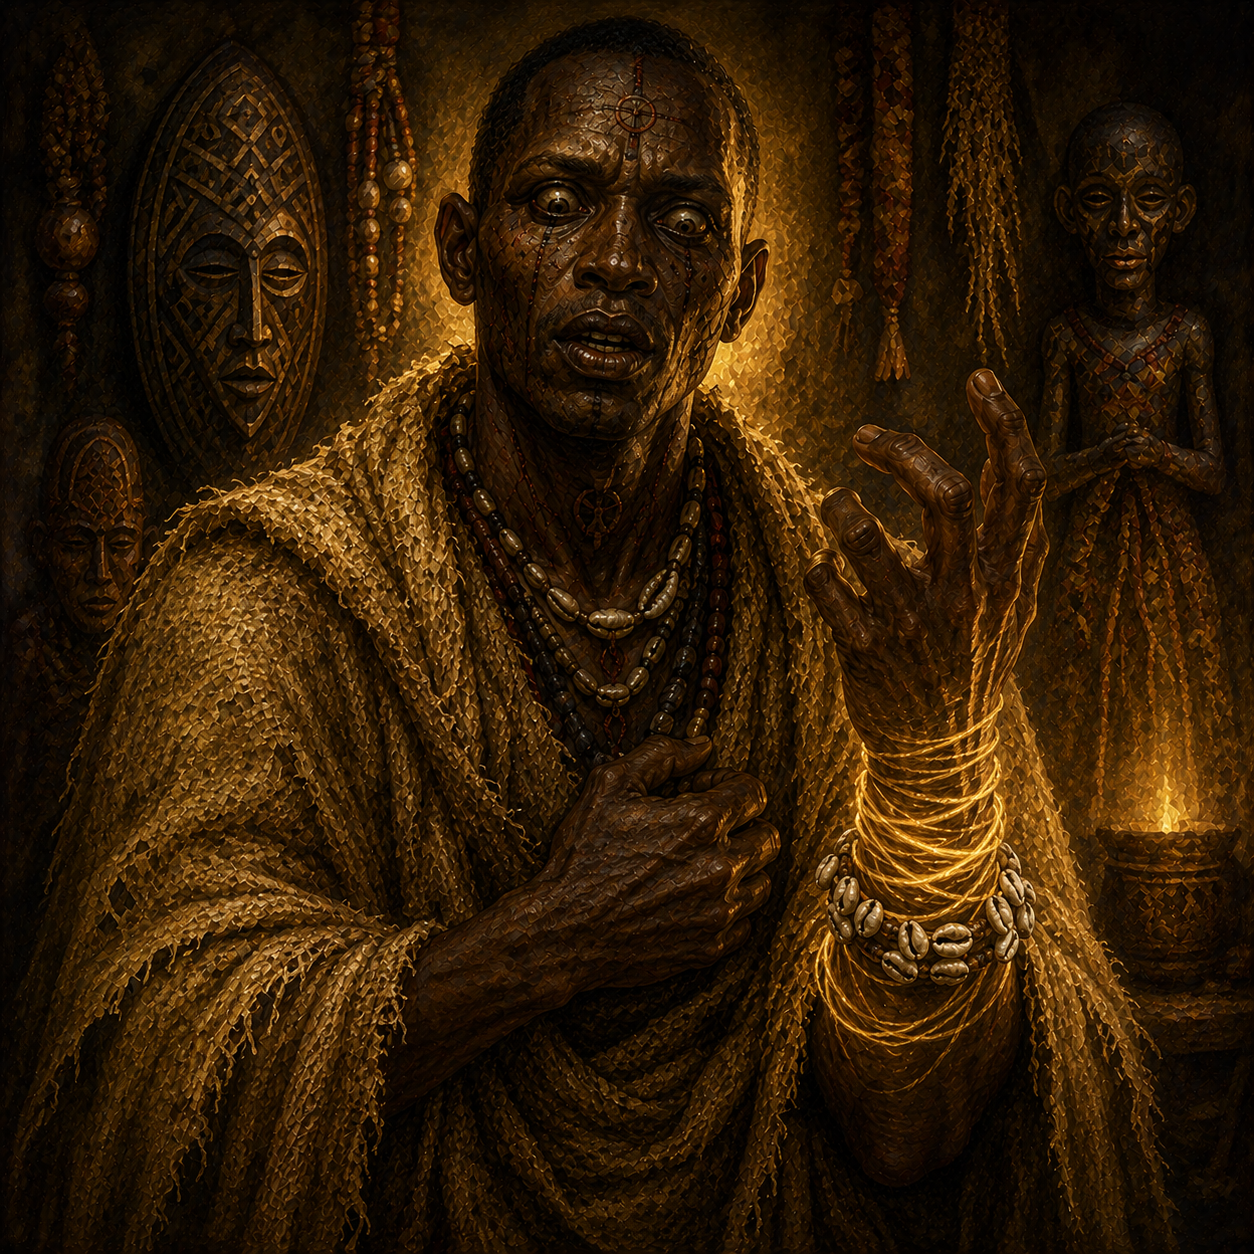
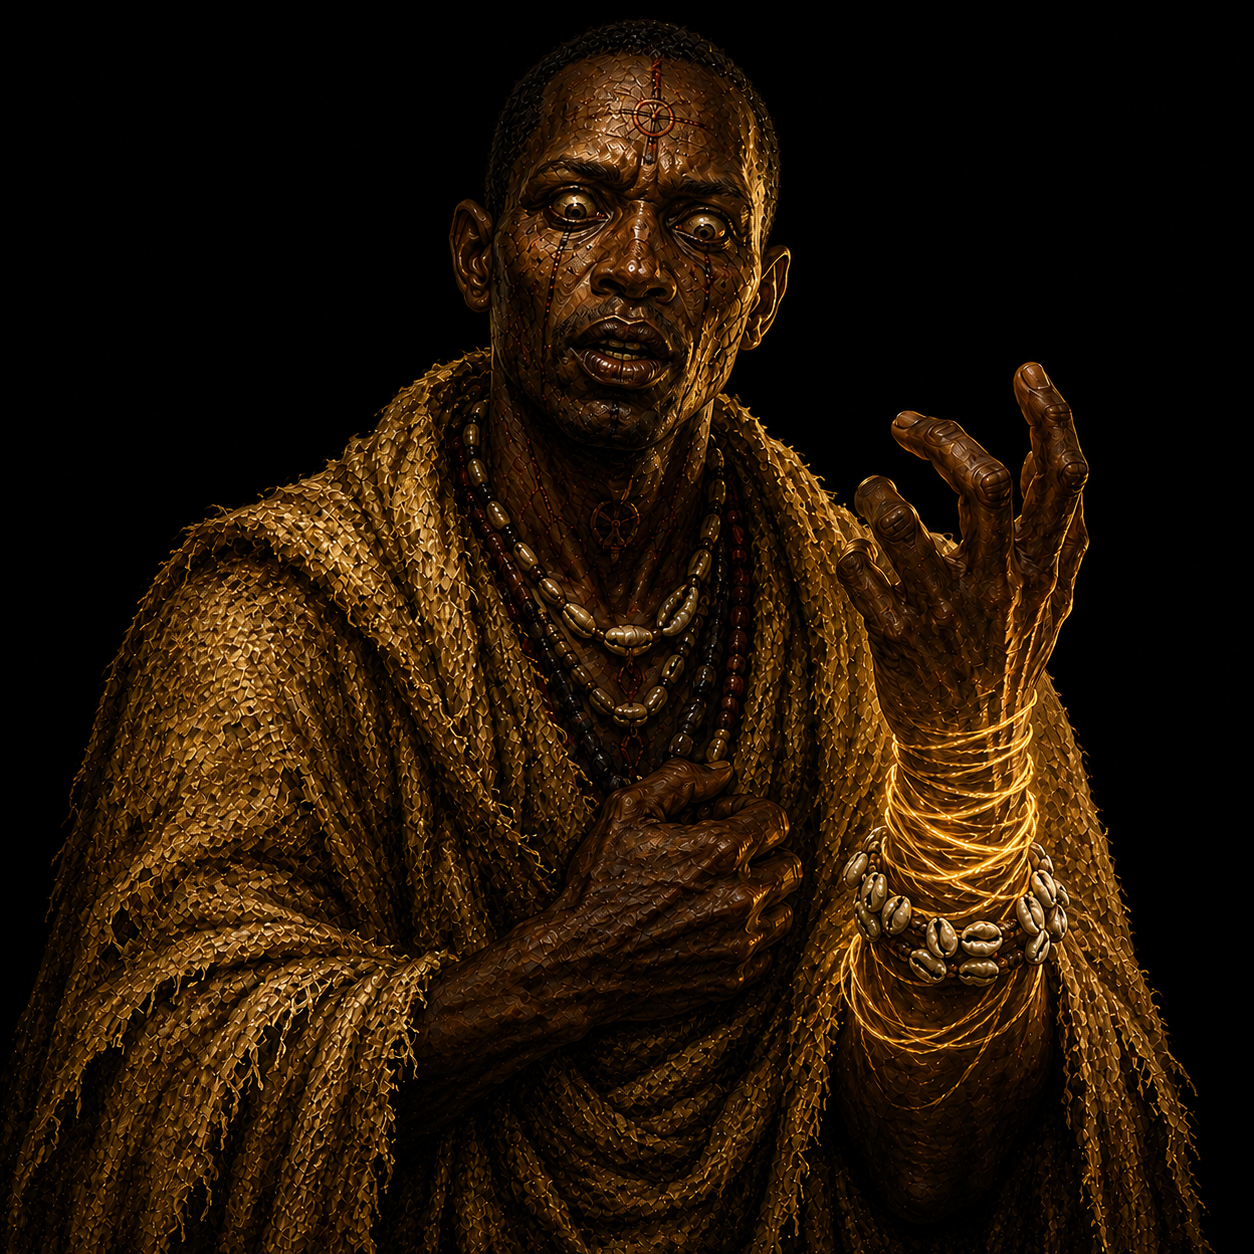
added dungeon scenes

diff --git a/js/data-dungeons.js b/js/data-dungeons.js
@@ -4081,7 +4081,7 @@ const ROOM_IMAGES = {
   niansVillage: {
     villageOutskirts: "assets/images/nians-village/village-outskirts.png",
     mainRoad: "assets/images/nians-village/main-road.png",
-    keeperFight: "assets/images/nians-village/main-road.png",
+    keeperFight: "assets/images/nians-village/keeper-fight.png",
     roadLoot: "assets/images/nians-village/road-loot.png",
     fork: "assets/images/nians-village/fork.png",
     villageSquare: "assets/images/nians-village/village-square.png",
@@ -4099,7 +4099,7 @@ const ROOM_IMAGES = {
   kelpiesLoch: {
     lochShore: "assets/images/kelpies-loch/loch-shore.png",
     shorePath: "assets/images/kelpies-loch/shore-path.png",
-    fishermanFight: "assets/images/kelpies-loch/shore-path.png",
+    fishermanFight: "assets/images/kelpies-loch/fisherman-fight.png",
     shoreLoot: "assets/images/kelpies-loch/shore-loot.png",
     fork: "assets/images/kelpies-loch/fork.png",
     rockyOutcrop: "assets/images/kelpies-loch/rocky-outcrop.png",
@@ -4117,7 +4117,7 @@ const ROOM_IMAGES = {
   jormungandrsCoil: {
     coilTideline: "assets/images/jormungandrs-coil/coil-tideline.png",
     driftwoodPath: "assets/images/jormungandrs-coil/driftwood-path.png",
-    sailorFight: "assets/images/jormungandrs-coil/driftwood-path.png",
+    sailorFight: "assets/images/jormungandrs-coil/sailor-fight.png",
     tidewrackLoot: "assets/images/jormungandrs-coil/tidewrack-loot.png",
     fork: "assets/images/jormungandrs-coil/fork.png",
     brokenPier: "assets/images/jormungandrs-coil/broken-pier.png",
@@ -4135,7 +4135,7 @@ const ROOM_IMAGES = {
   morrigansReckoning: {
     battleMoor: "assets/images/morrigans-reckoning/battle-moor.png",
     moorPath: "assets/images/morrigans-reckoning/moor-path.png",
-    scoutFight: "assets/images/morrigans-reckoning/moor-path.png",
+    scoutFight: "assets/images/morrigans-reckoning/scout-fight.png",
     moorLoot: "assets/images/morrigans-reckoning/moor-loot.png",
     fork: "assets/images/morrigans-reckoning/fork.png",
     theFord: "assets/images/morrigans-reckoning/the-ford.png",
@@ -4153,7 +4153,7 @@ const ROOM_IMAGES = {
   anansisGambit: {
     webboundClearing: "assets/images/anansis-gambit/webbound-clearing.png",
     threadPath: "assets/images/anansis-gambit/thread-path.png",
-    servantFight: "assets/images/anansis-gambit/thread-path.png",
+    servantFight: "assets/images/anansis-gambit/servant-fight.png",
     clearingLoot: "assets/images/anansis-gambit/clearing-loot.png",
     fork: "assets/images/anansis-gambit/fork.png",
     traderStall: "assets/images/anansis-gambit/trader-stall.png",
